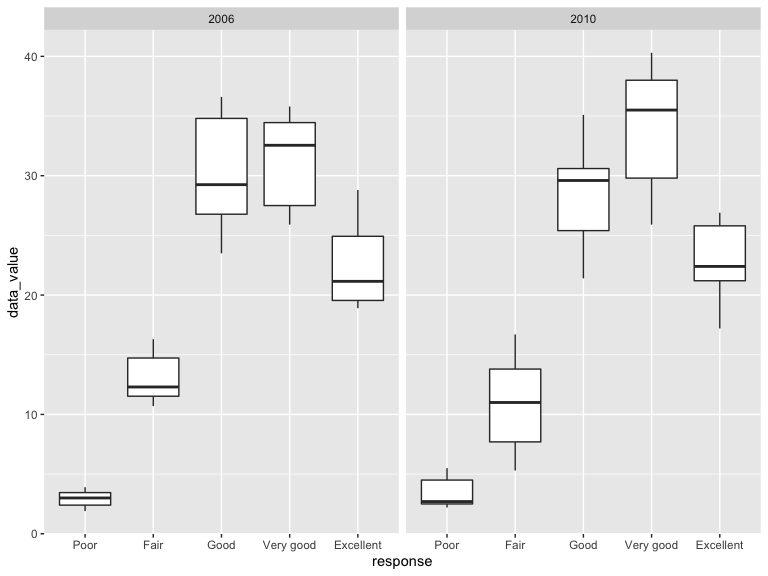
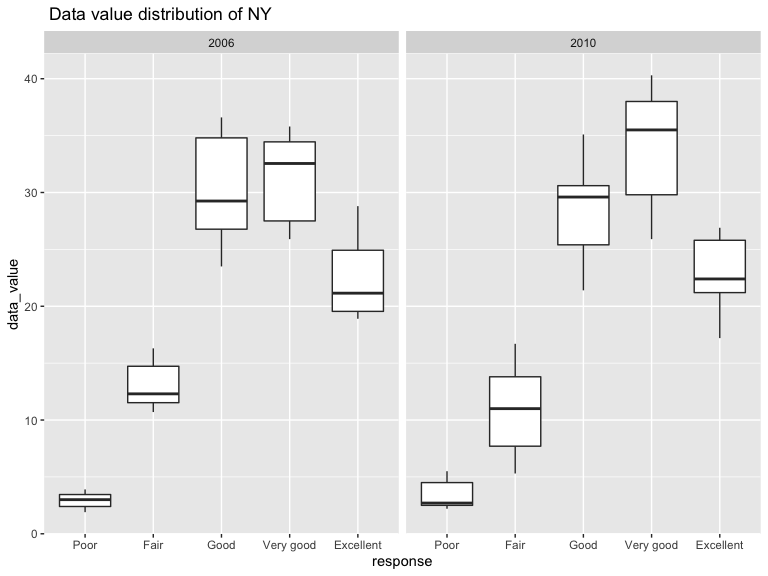
add detailed plot for problem3

diff --git a/p8105_hw3_ys3298.md b/p8105_hw3_ys3298.md
@@ -324,8 +324,21 @@ Averagedf =
 Comment: This figure has so many states information, so it’s not so
 clearly to see. We notice that most of the states fluctuate from 2002 to
 2010. Also, I do notice that there’re a few NAs after take the average(I
-don’t think it’s necessary to drop
-them).
+don’t think it’s necessary to drop them).
+
+``` r
+brfss_OH  %>% 
+  filter(year == "2006" | year == "2010" ) %>% 
+  filter(locationabbr == "NY") %>% 
+  ggplot(aes(x = response, y = data_value,fill = locationdesc)) +
+  geom_line(aes(group = locationdesc, color = locationdesc)) +
+  geom_bar(stat = "identity", position = "dodge") +
+  geom_point(size = 2, alpha = 0.5) +
+  labs(
+    title = " Data value of NY"
+  ) +
+  facet_grid(~year)
+```
 
 <img src="p8105_hw3_ys3298_files/figure-gfm/unnamed-chunk-10-1.png" width="90%" />
 Comment: From the Plot, we can see the distribution of data value for
@@ -341,6 +354,9 @@ brfss_OH  %>%
   filter(locationabbr == "NY") %>% 
   ggplot(aes(x = response, y = data_value)) +
   geom_boxplot() +
+    labs(
+    title = " Data value distribution of NY"
+  ) +
   facet_grid(~year)
 ```
 
@@ -366,7 +382,24 @@ accel =
   mutate(day_type = if_else(day<="Friday","WeekDay","WeekEnd")) %>% 
   mutate(value = round(value, 0)) %>% 
     mutate_if(is.double, as.integer)
+
+accel
 ```
+
+    ## # A tibble: 50,400 x 7
+    ##     week day    sorted_DayId activity value  time day_type
+    ##    <int> <ord>         <int>    <int> <int> <int> <chr>   
+    ##  1     1 Monday            1        1     1     1 WeekDay 
+    ##  2     1 Monday            1        2     1     2 WeekDay 
+    ##  3     1 Monday            1        3     1     3 WeekDay 
+    ##  4     1 Monday            1        4     1     4 WeekDay 
+    ##  5     1 Monday            1        5     1     5 WeekDay 
+    ##  6     1 Monday            1        6     1     6 WeekDay 
+    ##  7     1 Monday            1        7     1     7 WeekDay 
+    ##  8     1 Monday            1        8     1     8 WeekDay 
+    ##  9     1 Monday            1        9     1     9 WeekDay 
+    ## 10     1 Monday            1       10     1    10 WeekDay 
+    ## # … with 50,390 more rows
 
 Comment: I rearrange the day\_id in oreder to put it into right order.
 For this resulting dataset, there are 50400 observations and 7
@@ -468,4 +501,16 @@ Comment: Based on this graph, we can clearly see that the highest is
 around 22pm and then 12pm(two peaks), it means that the sum of all
 activities in this time for all day is the most. The lowest is from 24pm
 to 5am , it means that the sum of all activities in this time for all
-day is the least. And the activity on Monday is the most.
+day is the least. And the activity on Monday is the most. However,
+because the color is too similar to tell what day it is, I then make
+another plot to show every day’s activity in
+details:
+
+``` r
+ggplot(accel) + geom_linerange(aes(x=time,ymax=value,ymin=0,colour=day)) + scale_x_continuous("weeks", breaks = seq(5040, 50400 - 5040, 1440*7),labels=c(1:5)) + labs(title = "activity for every day") +   viridis::scale_color_viridis(
+    name = "week",
+    discrete = TRUE) +
+  theme(plot.title = element_text(hjust = 0.5), legend.position = "bottom")
+```
+
+<img src="p8105_hw3_ys3298_files/figure-gfm/unnamed-chunk-16-1.png" width="90%" />
